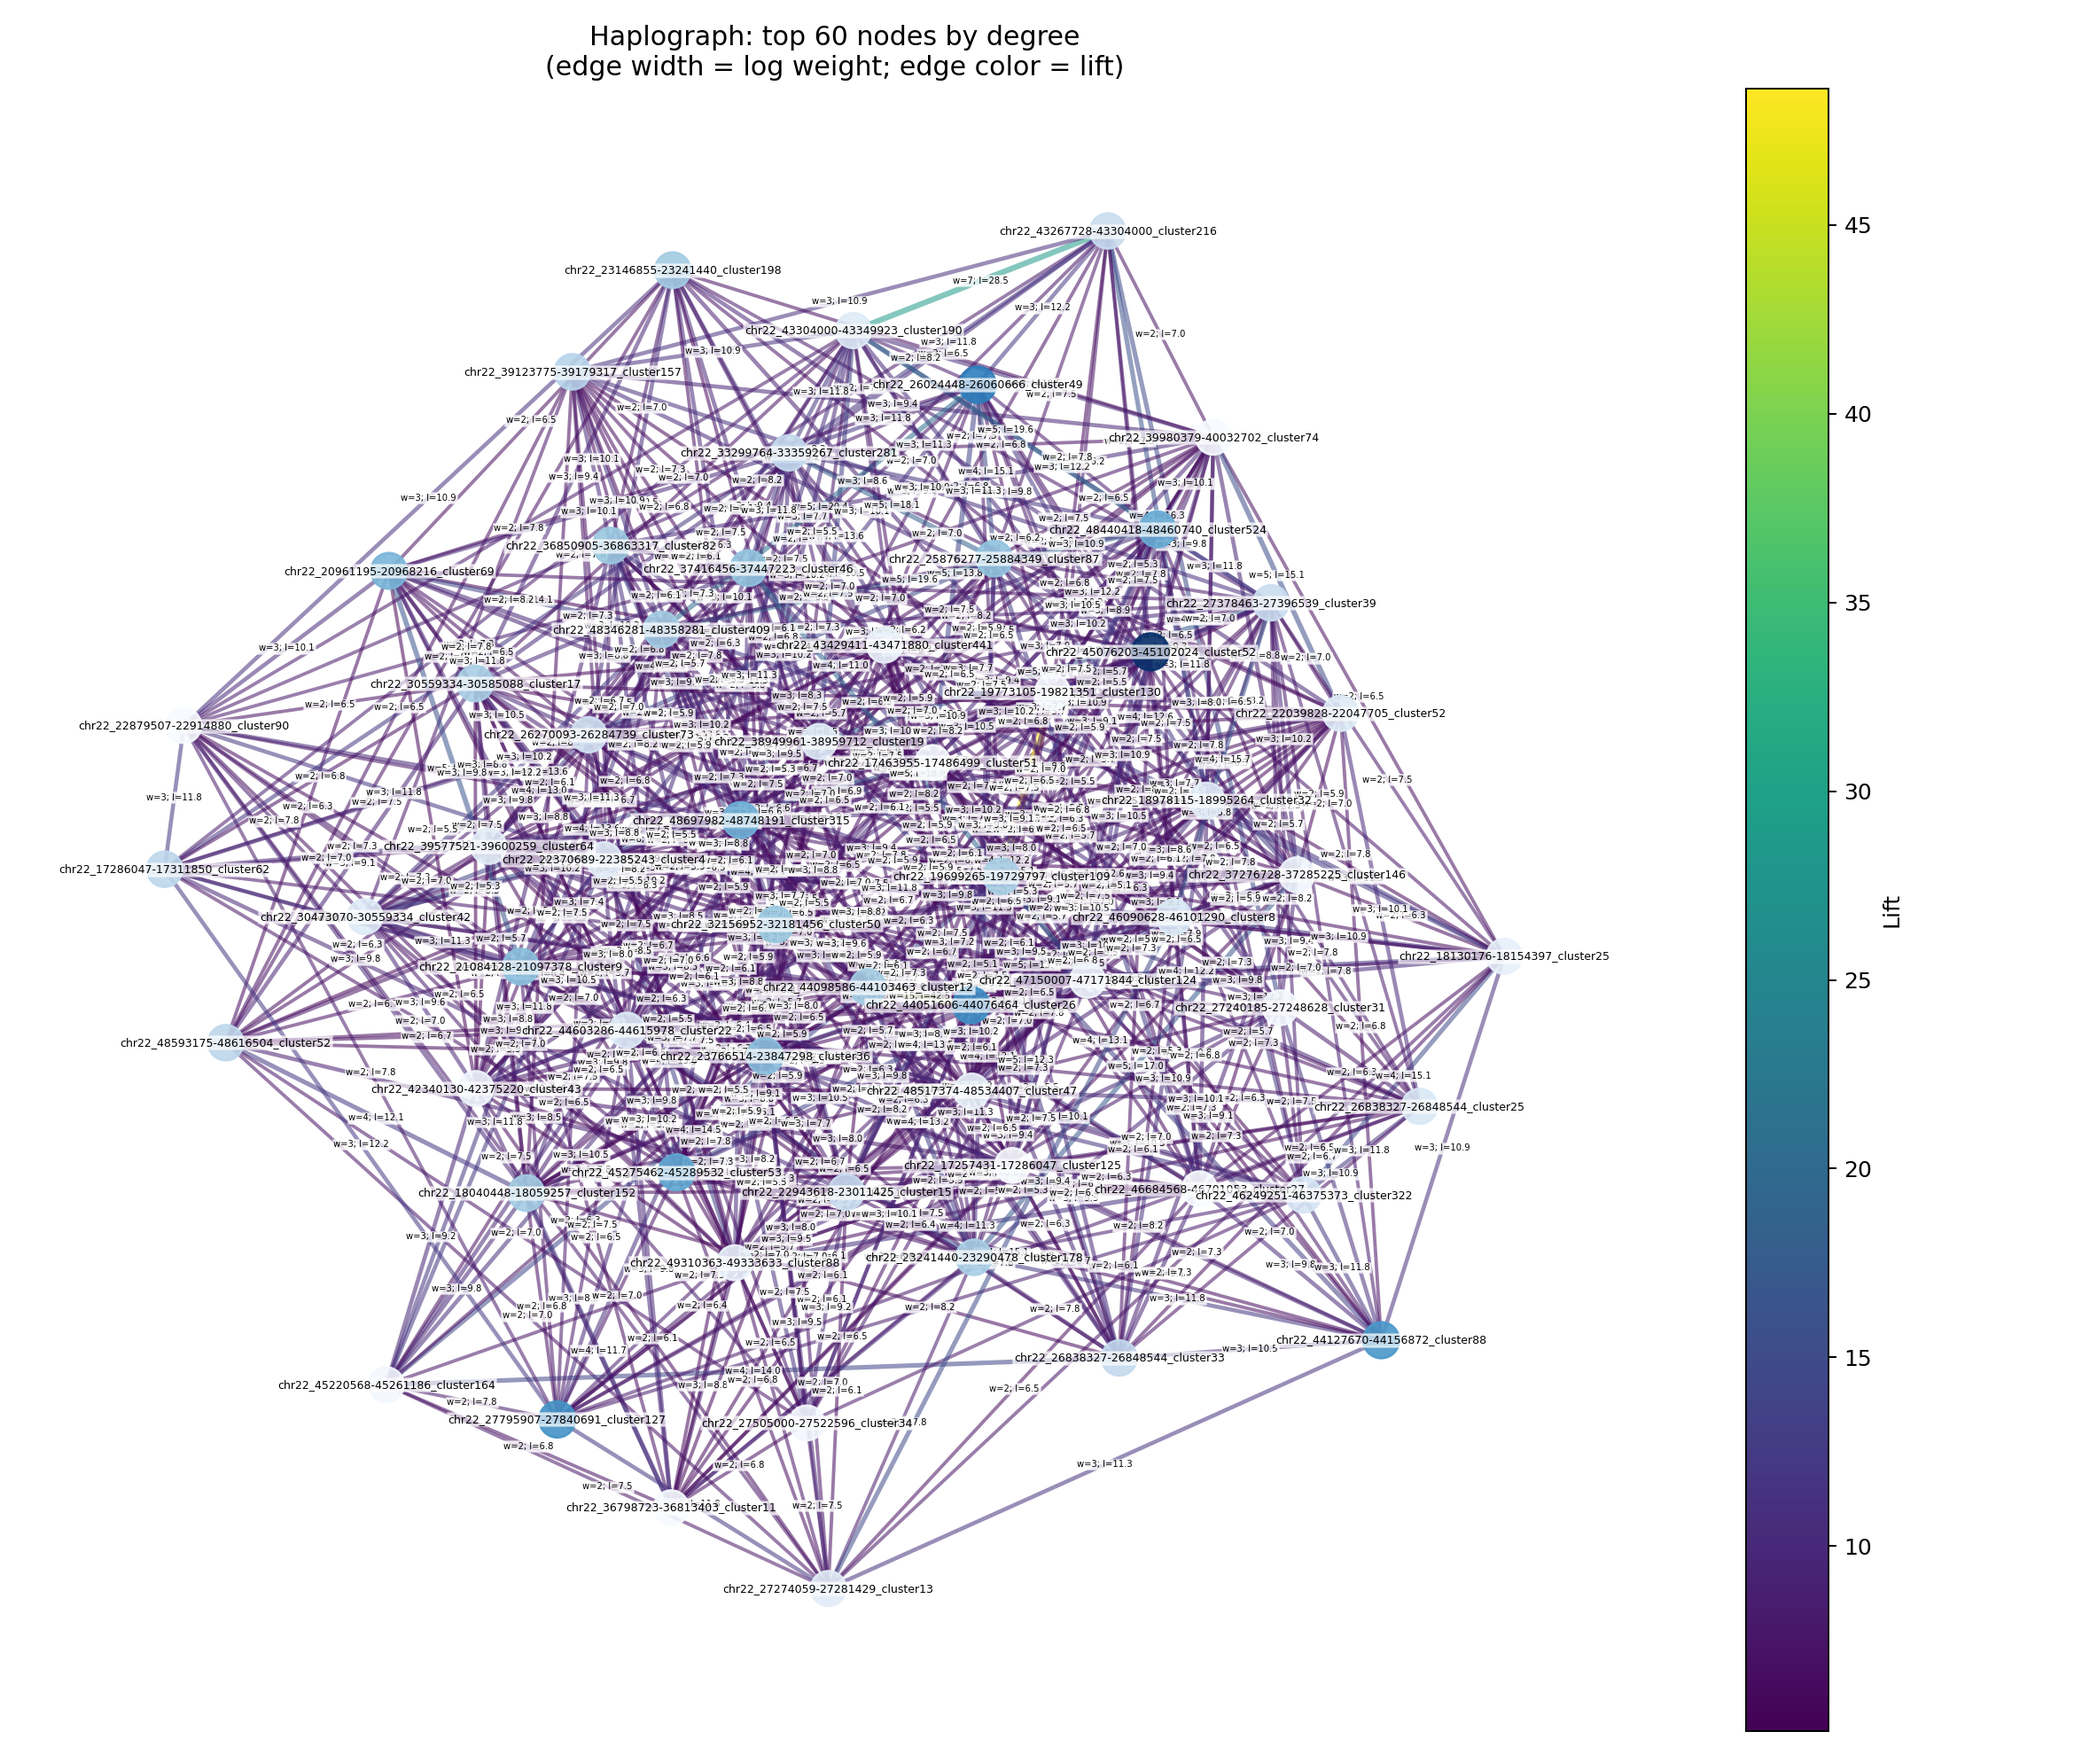
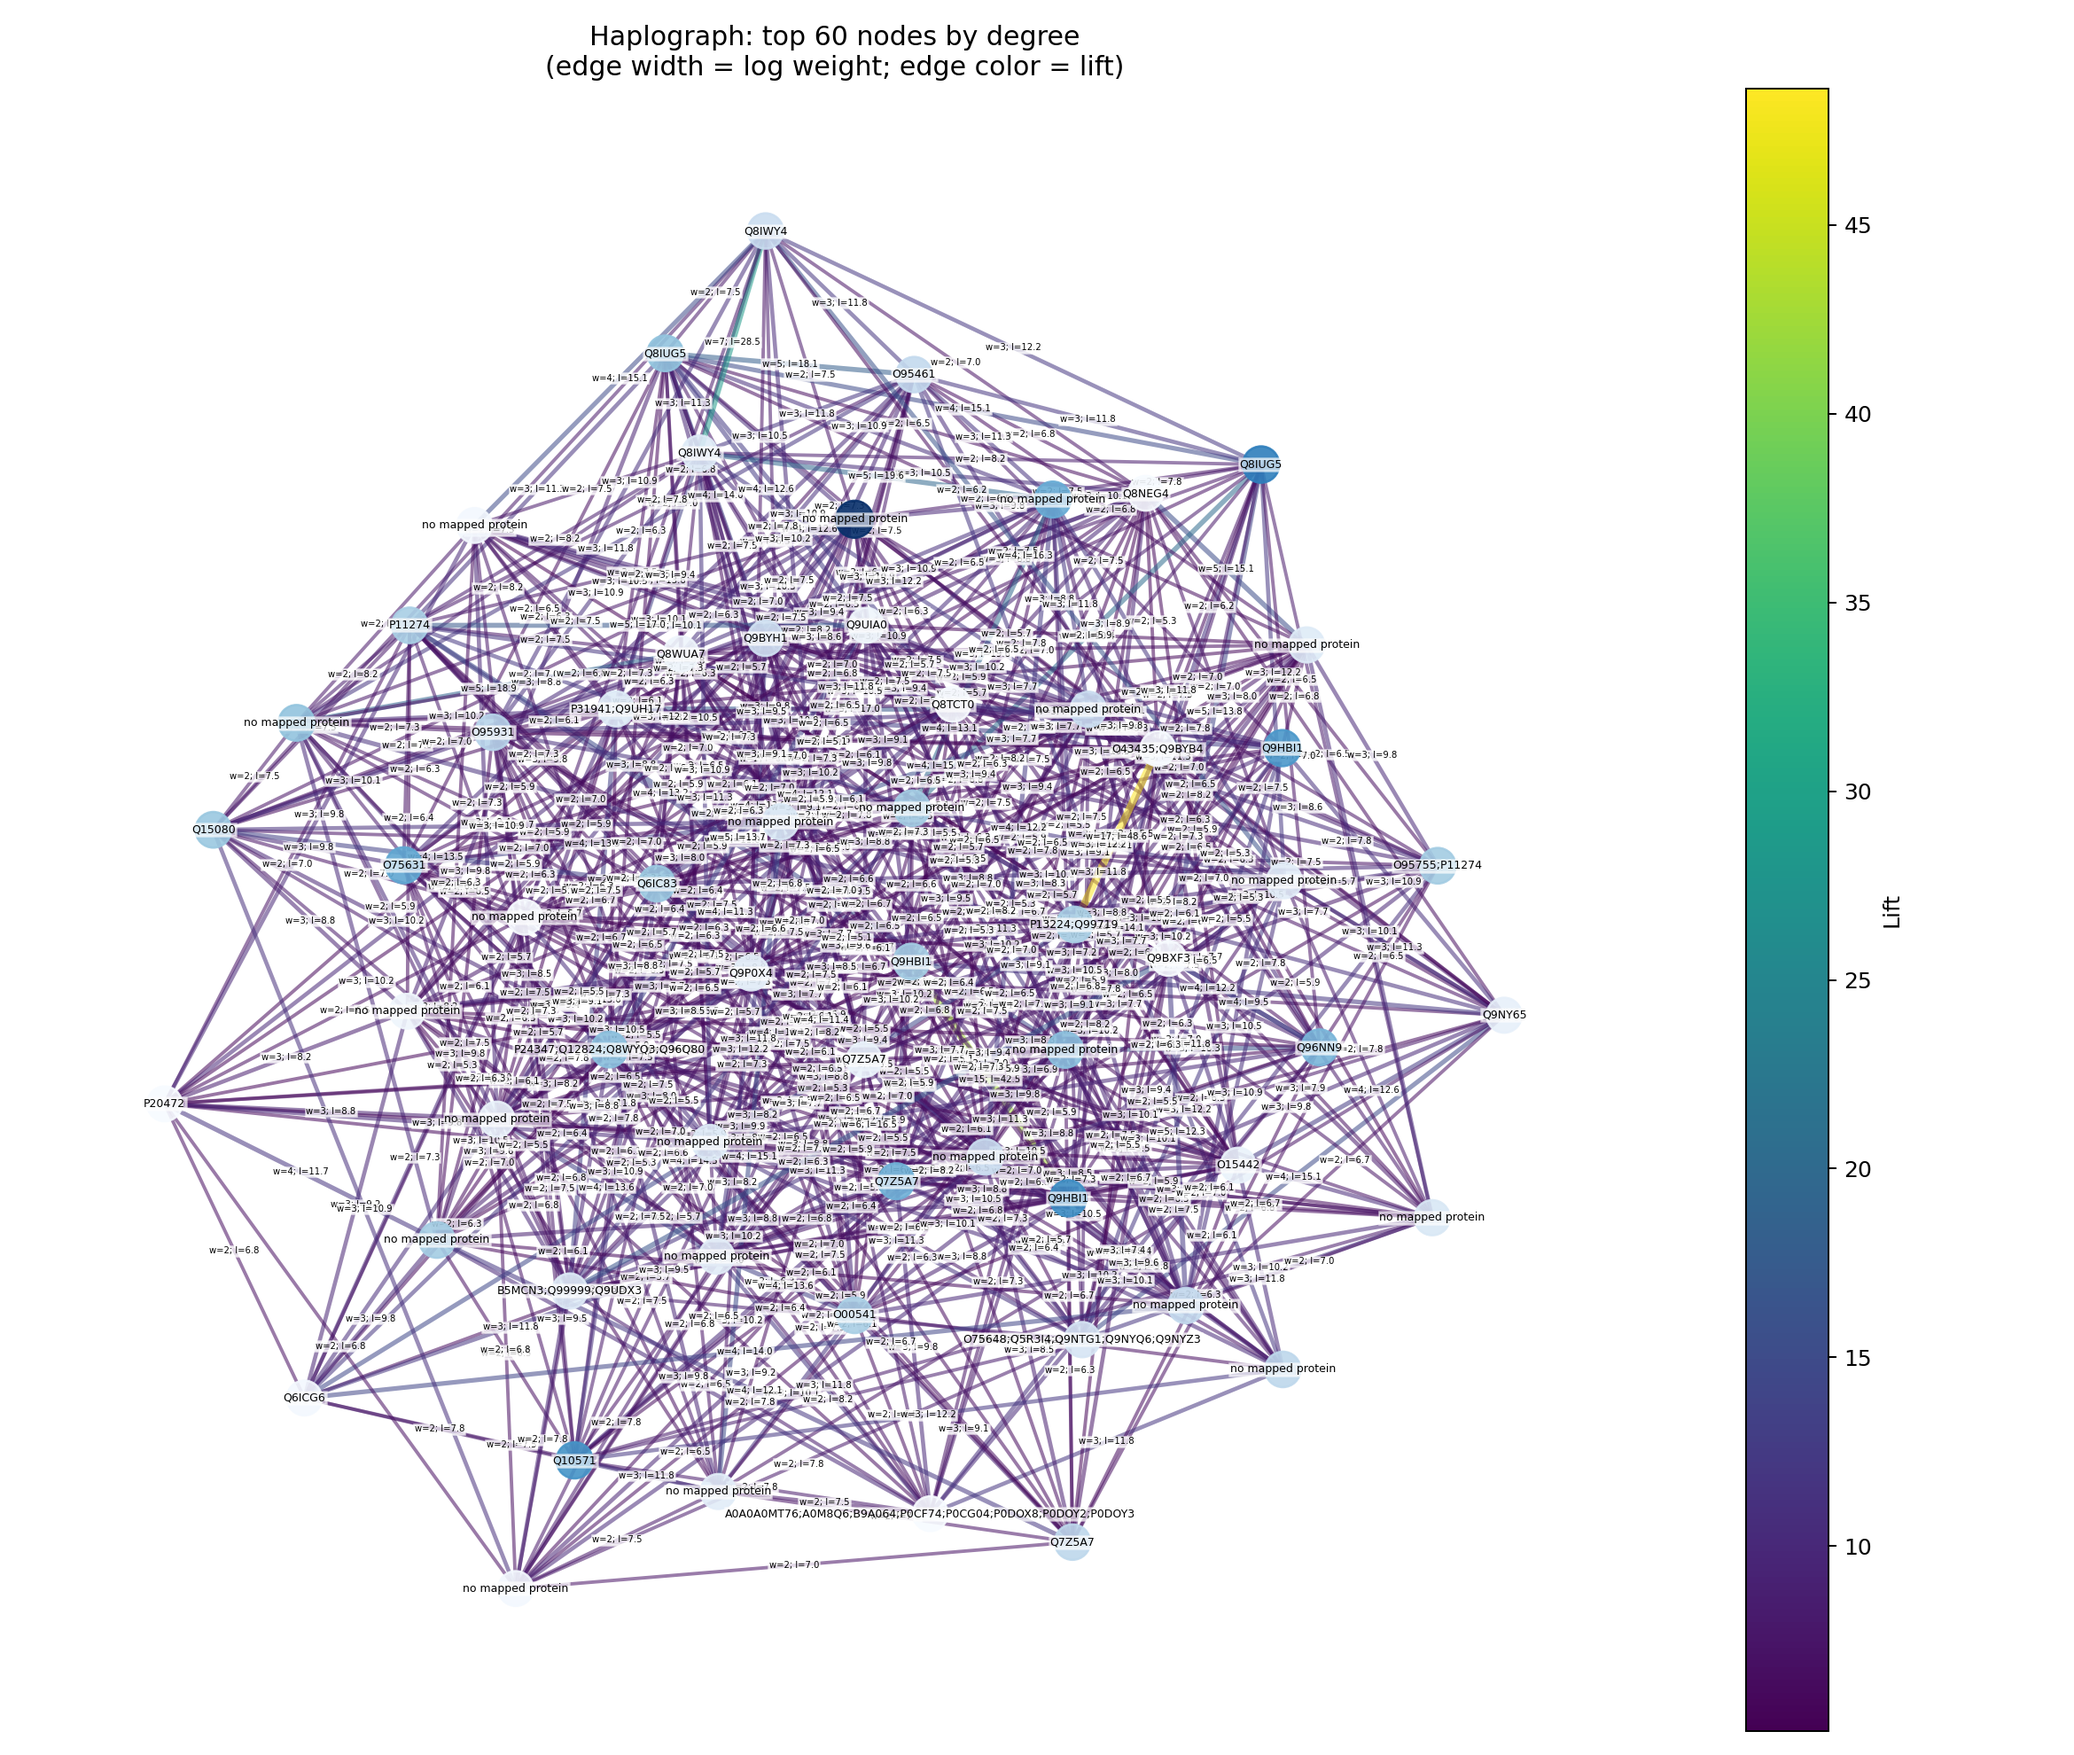
Label network nodes with proteins
Remove haploblock cluster identifiers from network labels and show mapped protein names while retaining edge weight and lift annotations.\n\nCo-authored-by: Copilot <223556219+Copilot@users.noreply.github.com>

Changed region(s): [[0.0624, 0.1232, 0.7487, 0.9242]]

diff --git a/scripts/plot_haplograph_comparison.py b/scripts/plot_haplograph_comparison.py
@@ -23,9 +23,18 @@ def draw_haplograph(edges: pd.DataFrame, output: Path, max_nodes: int) -> None:
     degree = pd.concat([edges["source"], edges["target"]]).value_counts()
     selected = set(degree.head(max_nodes).index)
     subset = edges[edges["source"].isin(selected) & edges["target"].isin(selected)].copy()
+    node_proteins: dict[str, set[str]] = {node: set() for node in selected}
+    for _, row in edges.iterrows():
+        for node, column in ((row.source, "source_protein"), (row.target, "target_protein")):
+            if node in node_proteins:
+                node_proteins[node].update(
+                    protein for protein in str(row.get(column, "")).split(";")
+                    if protein and protein != "nan"
+                )
     graph = nx.Graph()
     for node, value in degree.loc[list(selected)].items():
-        graph.add_node(node, degree=float(value))
+        label = ";".join(sorted(node_proteins[node])) or "no mapped protein"
+        graph.add_node(node, degree=float(value), label=label)
     for _, row in subset.iterrows():
         graph.add_edge(row.source, row.target, weight=float(row.weight), lift=float(row.lift))
     positions = nx.spring_layout(graph, seed=42, weight="weight", iterations=80)
@@ -44,7 +53,7 @@ def draw_haplograph(edges: pd.DataFrame, output: Path, max_nodes: int) -> None:
     )
     nx.draw_networkx_labels(
         graph, positions,
-        labels={node: node for node in graph},
+        labels={node: graph.nodes[node]["label"] for node in graph},
         font_size=5, bbox={"alpha": 0.6, "color": "white", "pad": 0.2}, ax=ax,
     )
     nx.draw_networkx_edge_labels(
@@ -69,7 +78,7 @@ def draw_combined(edges: pd.DataFrame, graph_features: pd.DataFrame, output: Pat
     proteins: set[str] = set()
     graph = nx.Graph()
     for block in blocks:
-        graph.add_node(f"B:{block}", type="haploblock", degree=float(block_degree[block]))
+        graph.add_node(f"B:{block}", type="haploblock", degree=float(block_degree[block]), proteins=set())
     for _, row in subset.iterrows():
         source, target = f"B:{row.source}", f"B:{row.target}"
         if source in graph and target in graph:
@@ -80,6 +89,7 @@ def draw_combined(edges: pd.DataFrame, graph_features: pd.DataFrame, output: Pat
             for protein in str(row.get(column, "")).split(";"):
                 if protein in graph_features.index:
                     proteins.add(protein)
+                    graph.nodes[f"B:{block}"]["proteins"].add(protein)
                     graph.add_node(f"P:{protein}", type="protein",
                                    phenotype=float(graph_features.loc[protein, "phenotype_difference"]))
                     graph.add_edge(f"B:{block}", f"P:{protein}", relation="contains", weight=1, lift=1)
@@ -102,7 +112,14 @@ def draw_combined(edges: pd.DataFrame, graph_features: pd.DataFrame, output: Pat
                            width=1.2, alpha=0.5, ax=ax)
     nx.draw_networkx_labels(
         graph, positions,
-        labels={node: node[2:] for node in graph},
+        labels={
+            node: (
+                ";".join(sorted(graph.nodes[node]["proteins"])) or "no mapped protein"
+                if graph.nodes[node]["type"] == "haploblock"
+                else node[2:]
+            )
+            for node in graph
+        },
         font_size=5, bbox={"alpha": 0.65, "color": "white", "pad": 0.2}, ax=ax,
     )
     edge_labels = {}

diff --git a/methods_and_results.md b/methods_and_results.md
@@ -167,7 +167,8 @@ exploratory visualization, not a statistical significance test.
 
 ![Figure 5: Haplograph-only network](proteomics/graph_comparison/haplograph_network.png)
 
-Each labeled node is a high-degree haploblock. Larger nodes have higher degree
+Each node is a high-degree haploblock labeled only with its mapped protein
+name(s), rather than its cluster identifier. Larger nodes have higher degree
 in the displayed subgraph. Each edge is labeled with `w` (co-occurrence
 weight) and `l` (lift); edge width also represents the logarithm of weight,
 while edge color represents lift. Higher lift means stronger co-occurrence
@@ -178,12 +179,13 @@ measure, but this figure does not show p-values or confidence intervals.
 
 ![Figure 6: Integrated haploblock–proteomics network](proteomics/graph_comparison/haplograph_proteomics_network.png)
 
-Squares represent labeled haploblocks and circles represent labeled proteins.
-Grey edges are labeled `contains` and show that a protein maps to or overlaps
-a haploblock; orange edges are labeled with `w` and `l` and show haploblock
-co-occurrence weight and lift. Protein color represents the difference in mean
-log2 abundance between phenotype groups. Colors and line widths are visual
-encodings, not statistical significance tests.
+Squares represent haploblocks labeled with their mapped protein name(s), and
+circles represent labeled proteins. Grey edges are labeled `contains` and show
+that a protein maps to or overlaps a haploblock; orange edges are labeled with
+`w` and `l` and show haploblock co-occurrence weight and lift. Protein color
+represents the difference in mean log2 abundance between phenotype groups.
+Colors and line widths are visual encodings, not statistical significance
+tests.
 
 ### Figure 7 — Graph connectivity versus logistic-regression importance
 
